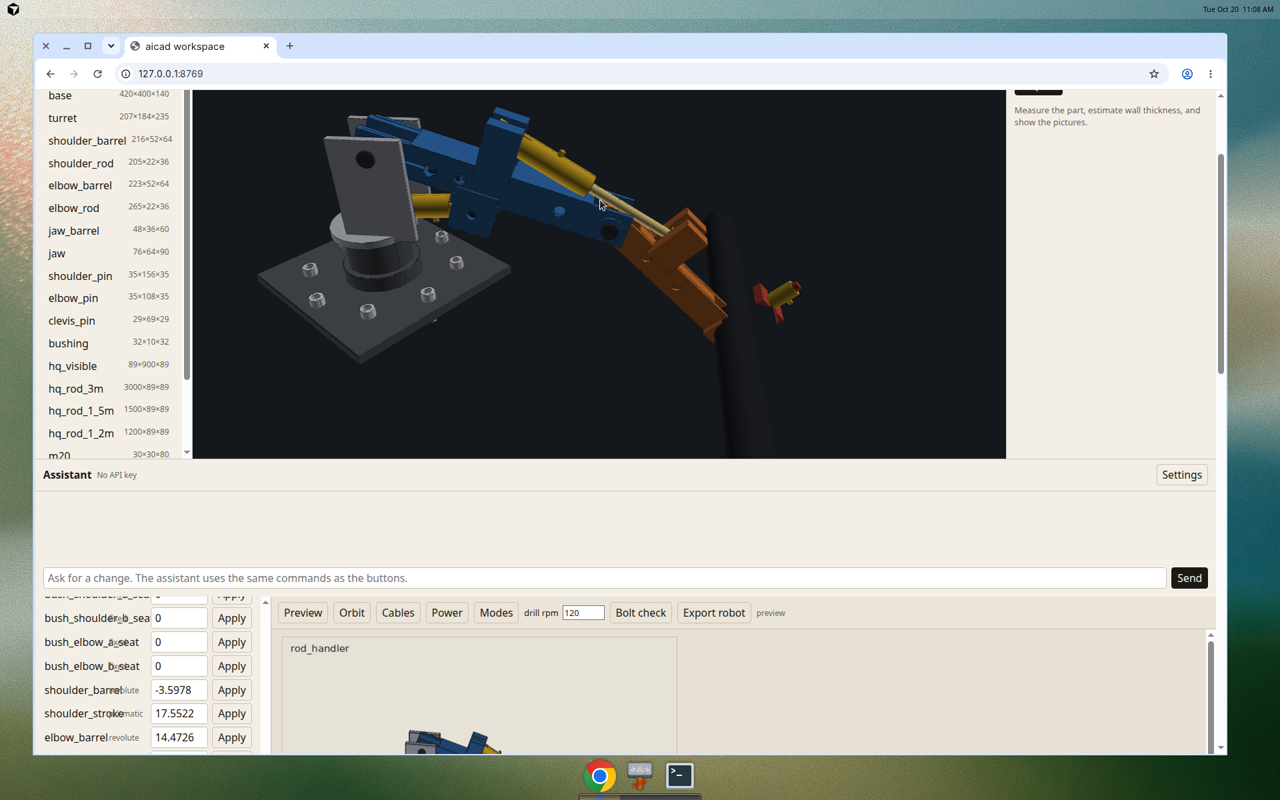
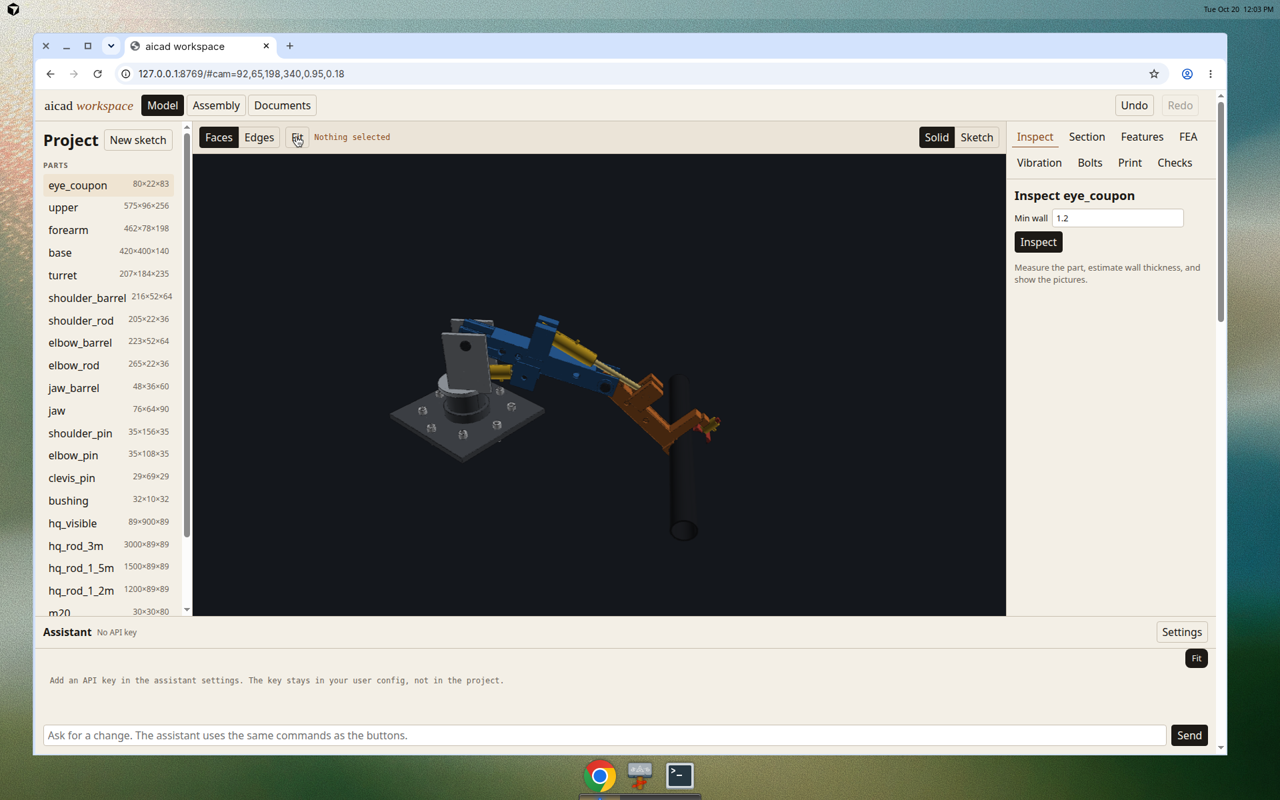
Mount the jaw barrel on the forearm.
The reach pose left the jaw 95 mm off the arm even though the joint transform was right. A post and bridge close that gap, and each pose now checks that every child meets its parent.

diff --git a/tests/test_assembly.py b/tests/test_assembly.py
@@ -526,6 +526,128 @@ def test_assembly_mesh_colors_each_part(tmp_path):
     assert mesh["colors"][0:3] == [10.0, 20.0, 30.0]
 
 
+def test_a_child_must_meet_its_parent_and_the_viewport_uses_that_placement(tmp_path):
+    from aicad.assembly import loose_mounts, posed_shapes
+
+    document = Document(tmp_path)
+    _box(document, "base", [20, 20, 20], [0, 0, 0])
+    _box(document, "block", [10, 10, 10], [0, 0, 0])
+    document.create_part_from_script(
+        "tube",
+        "part = feature.add('wall', Rot(0, -90, 0) * Cylinder(15, 40))\n"
+        "part = feature.cut('bore', Rot(0, -90, 0) * Cylinder(8, 44))\n",
+    )
+    document.create_part_from_script(
+        "shaft",
+        "part = feature.add('shaft', Rot(0, -90, 0) * Cylinder(4, 24))\n",
+    )
+    shapes = {name: part.base for name, part in document._parts.items()}
+
+    def placed(spec):
+        solved, solids = posed_shapes(spec, shapes)
+        return loose_mounts(solved, solids), solved, solids
+
+    near, _solved, _solids = placed(
+        {
+            "name": "near",
+            "instances": [{"name": "base", "part": "base"}, {"name": "block", "part": "block"}],
+            "joints": [
+                {
+                    "name": "seat",
+                    "type": "fixed",
+                    "parent": "base",
+                    "child": "block",
+                    "parent_anchor": [15.5, 0, 0],
+                }
+            ],
+        }
+    )
+    assert near == []
+    far, _solved, _solids = placed(
+        {
+            "name": "far",
+            "instances": [{"name": "base", "part": "base"}, {"name": "block", "part": "block"}],
+            "joints": [
+                {
+                    "name": "seat",
+                    "type": "fixed",
+                    "parent": "base",
+                    "child": "block",
+                    "parent_anchor": [80, 0, 0],
+                }
+            ],
+        }
+    )
+    assert [row["child"] for row in far] == ["block"]
+    assert far[0]["gap_mm"] > 20
+    engaged, _solved, _solids = placed(
+        {
+            "name": "bore",
+            "instances": [{"name": "tube", "part": "tube"}, {"name": "shaft", "part": "shaft"}],
+            "joints": [{"name": "slide", "type": "fixed", "parent": "tube", "child": "shaft"}],
+        }
+    )
+    assert engaged == []
+
+    document.create_assembly(
+        {
+            "name": "near",
+            "instances": [{"name": "base", "part": "base"}, {"name": "block", "part": "block"}],
+            "joints": [
+                {
+                    "name": "seat",
+                    "type": "fixed",
+                    "parent": "base",
+                    "child": "block",
+                    "parent_anchor": [15.5, 0, 0],
+                }
+            ],
+        }
+    )
+    mesh = document.assembly_mesh("near")
+    index = next(face["index"] for face in mesh["faces"] if face["ref"] == "instance/block")
+    xs = [
+        mesh["positions"][tri * 9 + corner * 3]
+        for tri, face in enumerate(mesh["triangle_face"])
+        if face == index
+        for corner in range(3)
+    ]
+    assert max(xs) == pytest.approx(20.5, abs=0.5)
+    assert min(xs) == pytest.approx(10.5, abs=0.5)
+
+
+def test_rod_handler_parts_stay_on_their_parents_at_every_pose(tmp_path):
+    import importlib.util
+
+    from aicad.assembly import loose_mounts, posed_shapes
+
+    path = Path(__file__).resolve().parents[1] / "examples" / "rod_handler.py"
+    spec = importlib.util.spec_from_file_location("rod_handler", path)
+    module = importlib.util.module_from_spec(spec)
+    spec.loader.exec_module(module)
+    document = Document(tmp_path)
+    built = module._build(document)
+    document.create_assembly(built["spec"])
+    shapes = {name: part.base for name, part in document._parts.items()}
+    for pose in built["spec"]["poses"]:
+        document.set_pose("rod_handler", pose)
+        packed = document.get_assembly("rod_handler")
+        solved, solids = posed_shapes(packed["assembly"], shapes)
+        loose = loose_mounts(solved, solids)
+        assert loose == [], pose
+        mesh = document.assembly_mesh("rod_handler")
+        jaw_index = next(face["index"] for face in mesh["faces"] if face["ref"] == "instance/jaw")
+        mesh_z = [
+            mesh["positions"][tri * 9 + corner * 3 + 2]
+            for tri, face in enumerate(mesh["triangle_face"])
+            if face == jaw_index
+            for corner in range(3)
+        ]
+        box = solids["jaw"].impl.bounding_box()
+        assert min(mesh_z) == pytest.approx(box.min.Z, abs=0.6)
+        assert max(mesh_z) == pytest.approx(box.max.Z, abs=0.6)
+
+
 def test_fixed_actuator_is_rejected(tmp_path):
     document = Document(tmp_path)
     _box(document, "base", [10, 10, 10], [0, 0, 0])

diff --git a/src/aicad/assembly.py b/src/aicad/assembly.py
@@ -54,6 +54,53 @@ def posed_shapes(spec: dict, shapes: dict[str, kernel.Shape], overrides: dict | 
     return solved, placed
 
 
+def mount_gaps(solved: dict, placed: dict[str, kernel.Shape]) -> list[dict]:
+    """Surface gap from each child solid to its parent solid.
+
+    A gap of zero with overlap means the solids touch or pass through each
+    other. A shaft in a clearance bore reports the radial gap and no overlap.
+    """
+    rows = []
+    for joint in solved["joints"]:
+        parent = joint["parent"]
+        child = joint["child"]
+        overlap, distance, *_rest = kernel.clearance_between(placed[parent], placed[child])
+        rows.append(
+            {
+                "joint": joint["name"],
+                "parent": parent,
+                "child": child,
+                "type": joint["type"],
+                "gap_mm": distance,
+                "overlap_mm3": overlap,
+                "boxes_meet": not kernel.aabb_separated(placed[parent], placed[child]),
+            }
+        )
+    return rows
+
+
+def loose_mounts(
+    solved: dict,
+    placed: dict[str, kernel.Shape],
+    *,
+    gap_mm: float = 3.0,
+    bore_gap_mm: float = 12.0,
+) -> list[dict]:
+    """Children that neither meet their parent nor sit in its bore.
+
+    ``gap_mm`` is the mounting gap. ``bore_gap_mm`` is the extra allowance
+    when the boxes already meet, which is a pin or a piston in a clearance hole.
+    """
+    loose = []
+    for row in mount_gaps(solved, placed):
+        if row["overlap_mm3"] > 0 or row["gap_mm"] <= gap_mm:
+            continue
+        if row["boxes_meet"] and row["gap_mm"] <= bore_gap_mm:
+            continue
+        loose.append(row)
+    return loose
+
+
 def collisions(solved: dict, placed: dict[str, kernel.Shape], ignore: list[list[str]] | None = None) -> list[dict]:
     skip = set()
     for pair in ignore or []:

diff --git a/examples/rod_handler.py b/examples/rod_handler.py
@@ -287,6 +287,15 @@ part = feature.cut("lightening_a", Pos(110, 0, 2) * Rot(90, 0, 0) * Cylinder(11,
 part = feature.cut("lightening_b", Pos(210, 0, 2) * Rot(90, 0, 0) * Cylinder(11, 70))
 part = feature.add("cradle", cradle)
 part = feature.cut("rod_seat", seat)
+# The barrel is above the rod. The post is a plate on the cradle's inner
+# end, clear of the rod (the rod reaches x=345.5), and the bridge stops
+# just short of the barrel so the jaw can still slide.
+post = Pos(326, 0, 80) * Box(34, 48, 150)
+foot = Pos(338.5, 0, 8) * Box(9, 48, 36)
+bridge = Pos(355.5, 0, 152) * Box(32, 36, 28)
+part = feature.add("jaw_post", post)
+part = feature.add("jaw_foot", foot)
+part = feature.add("jaw_bridge", bridge)
 {FINISH}
 """
 

diff --git a/examples/rod_handler_notes.md b/examples/rod_handler_notes.md
@@ -46,6 +46,10 @@ With the chuck taking the other end, the free length is the stick-up past the ha
 
 The upper link's first mode, before the root doubler, was 31.6 Hz, within 5% of the third harmonic of 600 rpm (30 Hz). After the doubler it is 70.6 Hz, and the same drill speeds are clear. Joint compliance would lower that number. The check says so.
 
+## The jaw was floating off the forearm
+
+At the reach pose the jaw barrel is a child of the forearm, and the viewport mesh uses that same solved transform. The solids did not meet. The barrel sat 95 mm off the cradle, so the red jaw read as a separate part past the orange arm. A post on the inner end of the cradle, clear of the HQ rod, and a bridge that stops 0.5 mm short of the barrel close that gap. The jaw still slides 64 mm onto the rod. Both poses report every child on its parent.
+
 ## Robot export
 
 The export writes a URDF and a MuJoCo file, 29 links and 8 moving joints. MuJoCo loaded the file and took 5 steps. Cylinder relations are comments in the robot file. A simulator will not keep the rod eye on the clevis unless something else does. PyBullet is not installed here, so that check was skipped and the URDF was still written.
